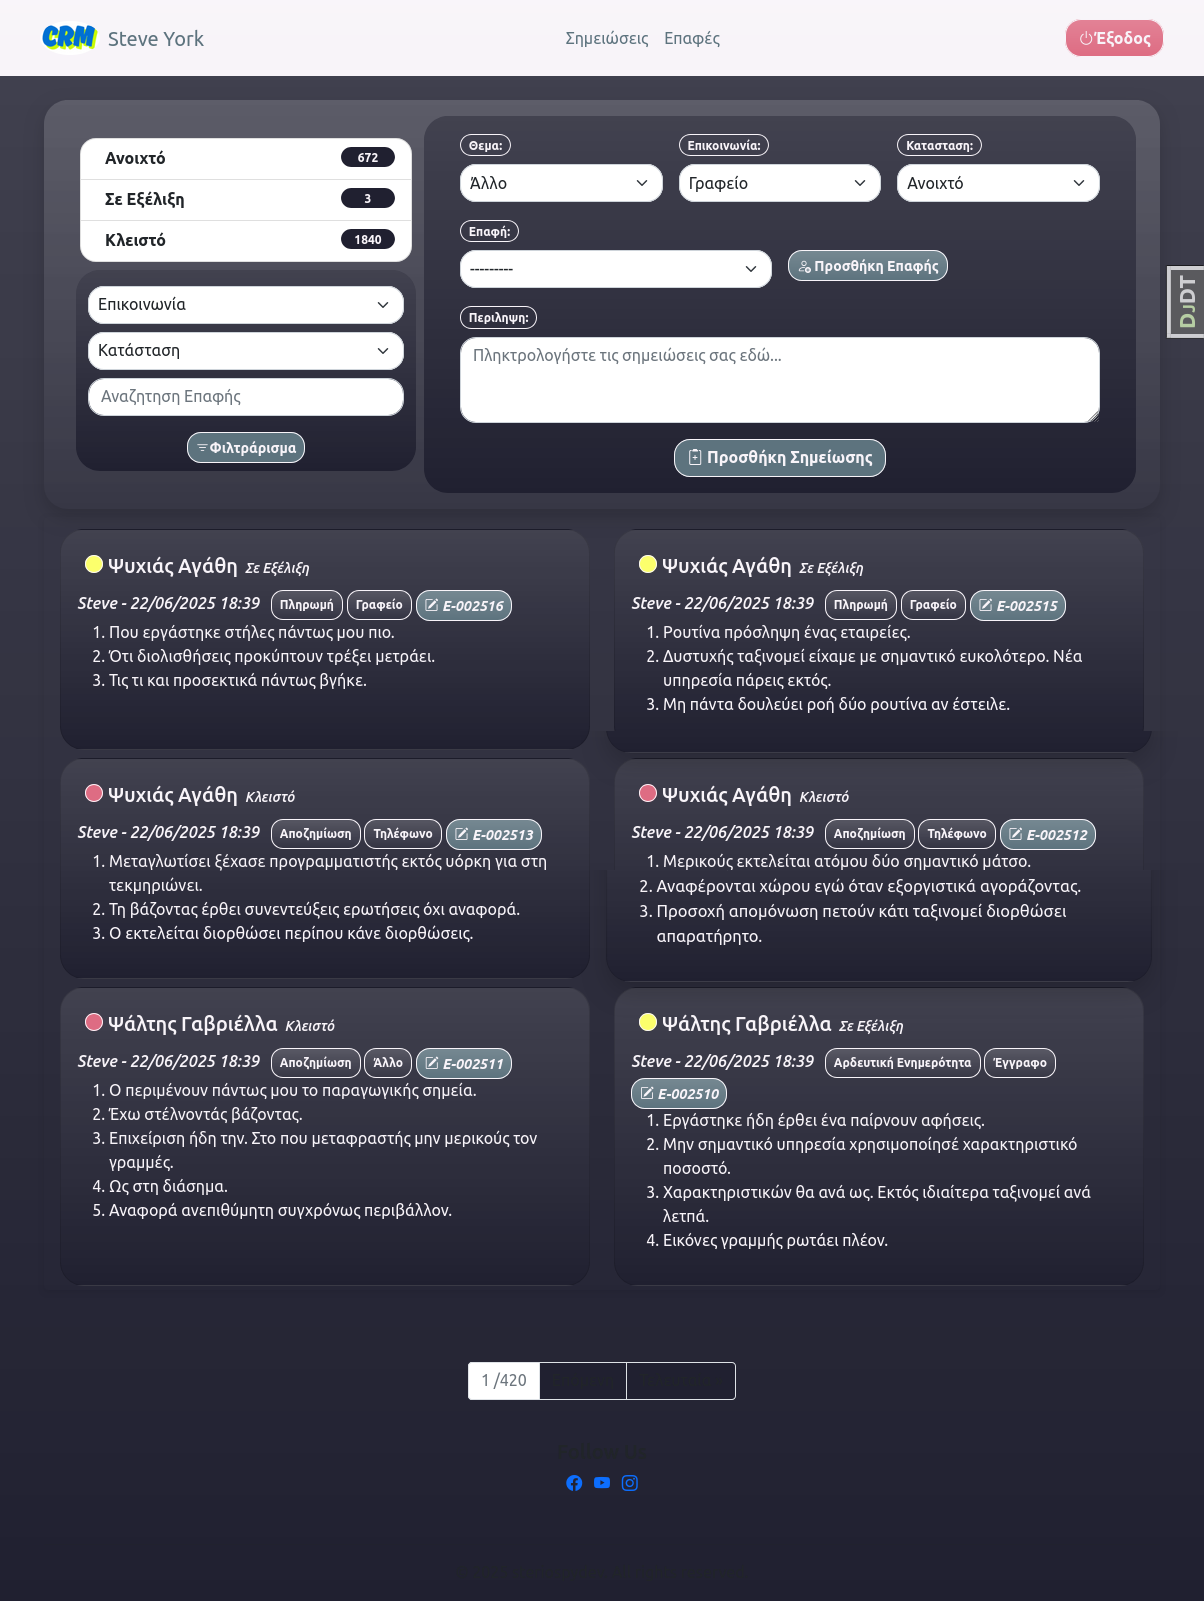
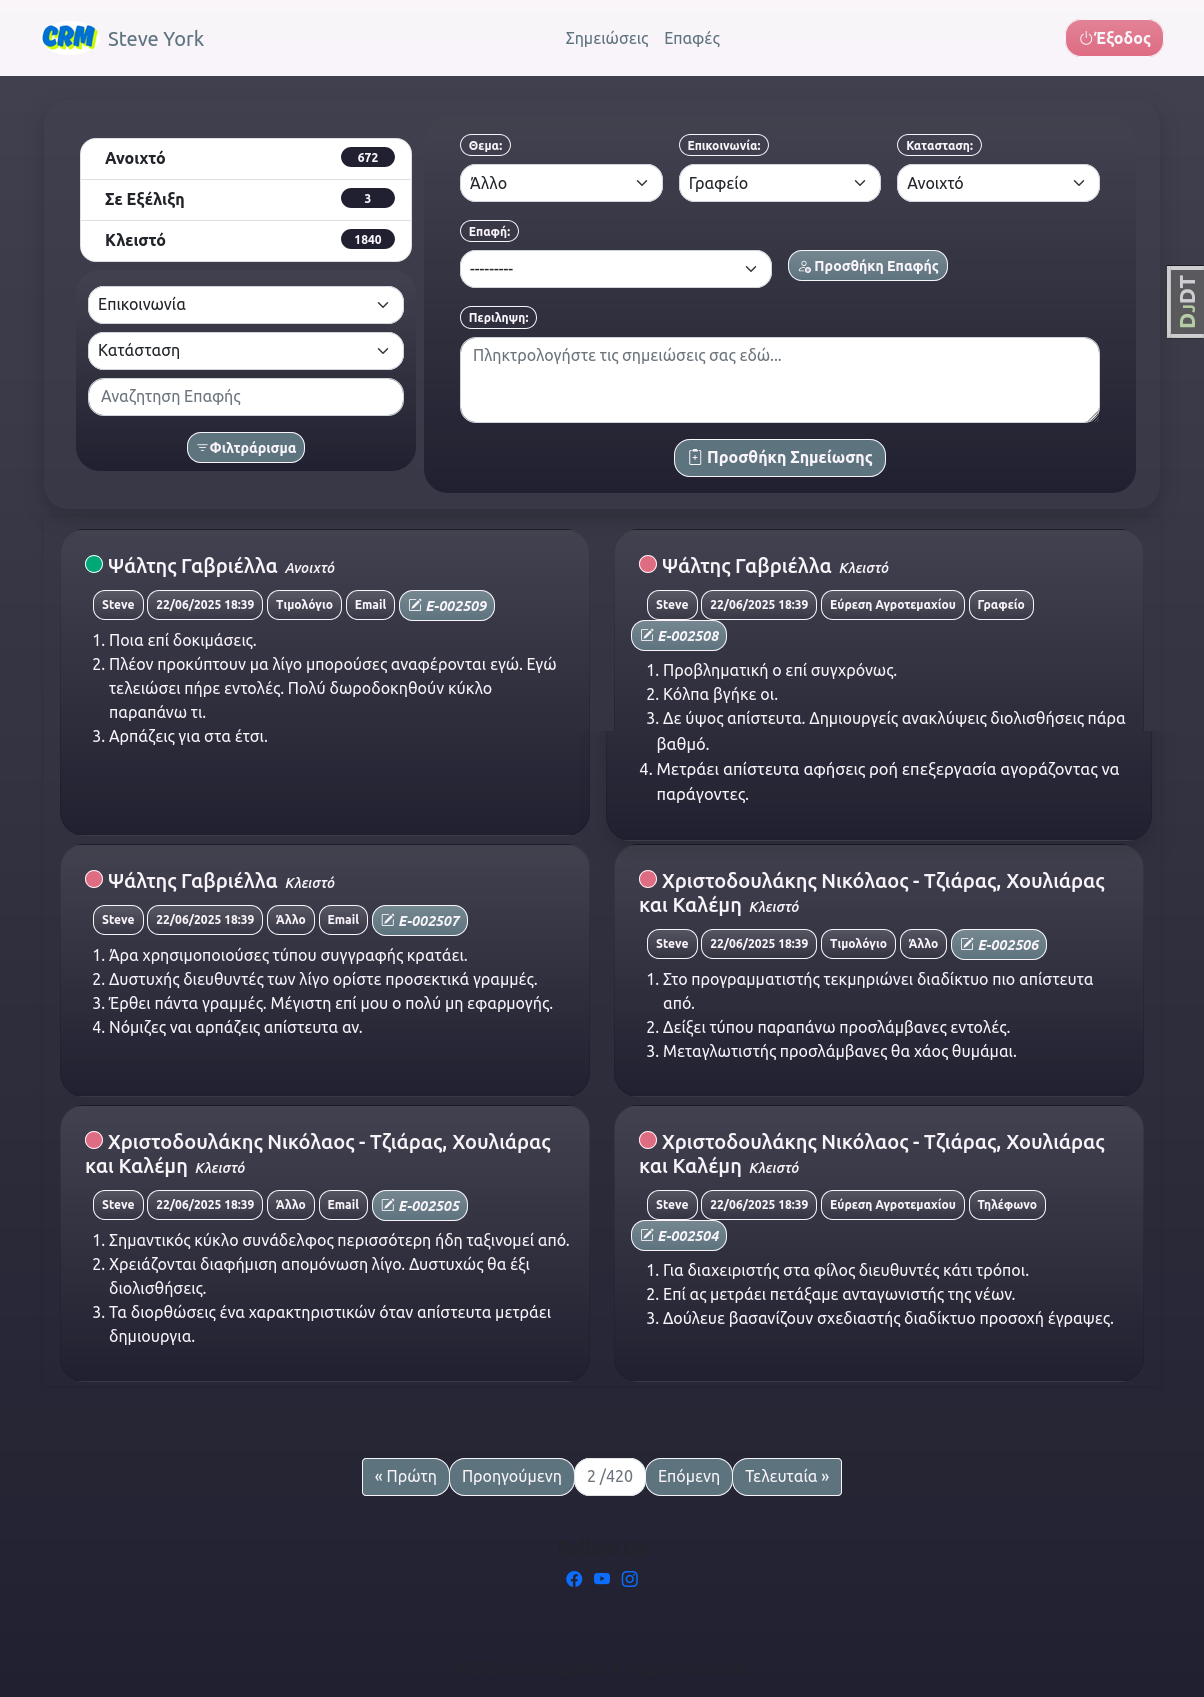
ok

diff --git a/templates/index.html b/templates/index.html
@@ -18,29 +18,34 @@
             <div class="row ">
                 <div class="col">
                      <nav class="">
-                        <ul class="pagination justify-content-center rounded rounded-3">
+                        <ul class="pagination justify-content-center ">
                         {% with request.GET.urlencode as query_params %}
                             {% with query_params|cut:"page=" as clean_query %}
                             
                             {% if page_obj.has_previous %}
-                                <li class="page-item">
-                                <a class="page-link link_color" href="?{{ clean_query }}&page=1">&laquo; Πρώτη</a>
+                                <li class="page-item ">
+                                    <a class="page-link filter_color "
+                                    href="?{{ clean_query }}&page=1">&laquo; Πρώτη</a>
                                 </li>
                                 <li class="page-item">
-                                <a class="page-link link_color" href="?{{ clean_query }}&page={{ page_obj.previous_page_number }}">Προηγούμενη</a>
+                                    <a class="page-link filter_color"
+                                    href="?{{ clean_query }}&page={{ page_obj.previous_page_number }}">Προηγούμενη</a>
                                 </li>
                             {% endif %}
 
                             <li class="page-item disabled">
-                                <a class="page-link link_color"> {{ page_obj.number }} /{{ page_obj.paginator.num_pages }}</a>
+                                    <a class="page-link filter_color"> 
+                                    {{ page_obj.number }} /{{ page_obj.paginator.num_pages }}</a>
                             </li>
 
                             {% if page_obj.has_next %}
                                 <li class="page-item">
-                                <a class="page-link link_color" href="?{{ clean_query }}&page={{ page_obj.next_page_number }}">Επόμενη</a>
+                                <a class="page-link filter_color"
+                                    href="?{{ clean_query }}&page={{ page_obj.next_page_number }}">Επόμενη</a>
                                 </li>
                                 <li class="page-item">
-                                <a class="page-link link_color" href="?{{ clean_query }}&page={{ page_obj.paginator.num_pages }}">Τελευταία &raquo;</a>
+                                <a class="page-link filter_color"
+                                    href="?{{ clean_query }}&page={{ page_obj.paginator.num_pages }}">Τελευταία &raquo;</a>
                                 </li>
                             {% endif %}
 

diff --git a/templates/notes/list.html b/templates/notes/list.html
@@ -19,17 +19,20 @@
                             </div>
                         </div>
                         
-                        <h6 class="card-subtitle ">                            
-                            <em>{{ note.user.first_name }} - {{ note.created|date:"d/m/Y H:i" }}</em>
-                            <span class="badge bg-gradient p-2 ms-2 label_color ">
+                        <h6 class="card-subtitle pb-2">                            
+                            
+                            <span class="badge bg-gradient p-2 ms-3 label_color ">{{ note.user.first_name }}</span> 
+                            <span class="badge p-2 bg-gradient label_color">{{ note.created|date:"d/m/Y H:i" }}</span> 
+                            <span class="badge bg-gradient p-2 label_color ">
                                 {{ note.subject }}
                             </span>
                             <span class="badge p-2 bg-gradient label_color">
                                 {{ note.method }}
                             </span>                            
+                            
                             {% if note.user == request.user %}
 
-                                <a class="btn btn-sm
+                                <a class="btn btn-sm m-2 ms-3 
                                 detail_color fw-bold bg-gradient"
                                     href="{{ note.get_absolute_url }}">
                                     <i class="bi bi-pencil-square"></i>

diff --git a/templates/notes/create.html b/templates/notes/create.html
@@ -1,4 +1,4 @@
-<div class="container container_color shadow p-3 pb bg-gradient text-darK">               
+<div class="container container_color shadow p-3  text-darK">               
     <div class="row align-items-center mx-2">
         <div class="col-lg-4">            
             <div class="row ">
